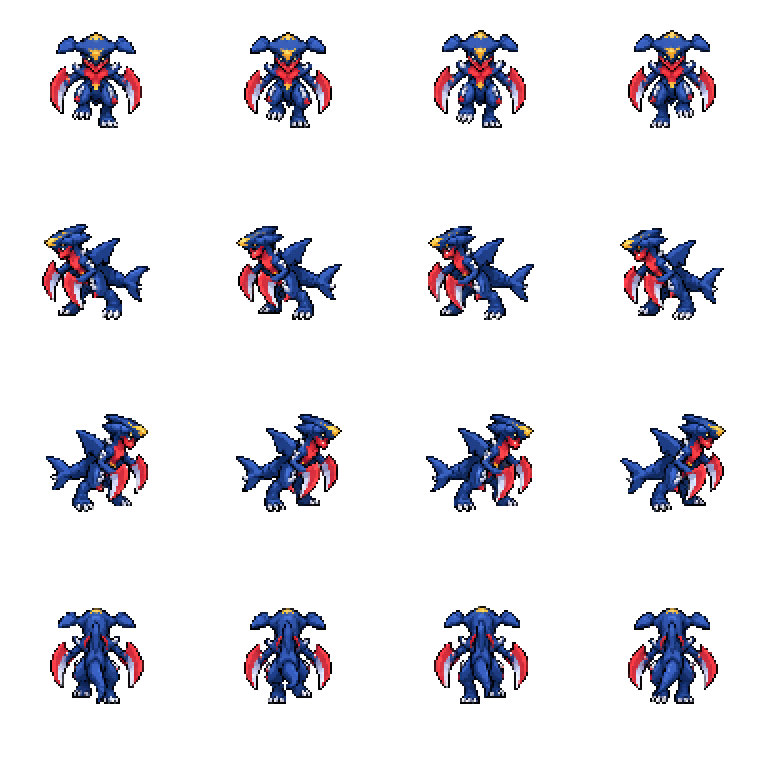
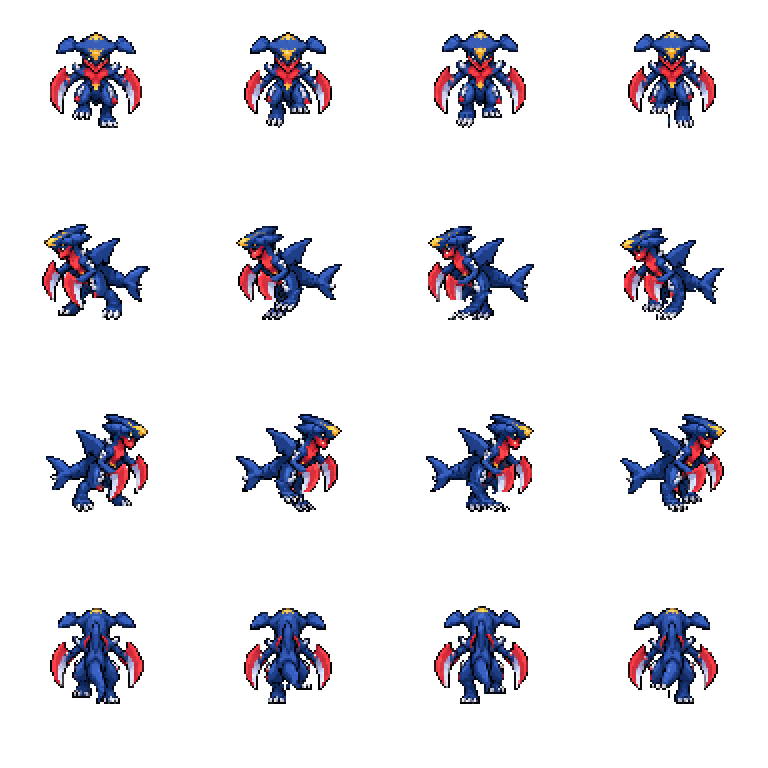
Give Mega Garchomp visible alternating walking strides

diff --git a/docs/mounts/mega_garchomp.md b/docs/mounts/mega_garchomp.md
@@ -6,8 +6,15 @@ The original V7 mount, foreground, rider mask and seat definition are retained
 under `assets/mounts/mega_garchomp/source/`, with SHA-256 provenance.
 
 `tools/build_mega_garchomp_mount.gd` shifts the entire rig upward two physical
-pixels to match the normal avatar ground line. The artwork, palette, 2× pixel
-scale and relative rider placement are unchanged. Player frames remain 64×64.
+pixels to match the normal avatar ground line. The upper body, 2× pixel scale
+and relative rider placement are unchanged.
+`tools/mega_garchomp_walk_rig.gd` now articulates the existing leg pixels into
+clear alternating contact and passing poses. Side views reverse the leading
+foot and lift the recovering foot; front/rear views alternate planted and lifted
+paws. The farther side leg is shaded slightly darker for depth. Phase zero
+retains the original standing pose. Foreground and mask are rebuilt from the
+same leg pixels, with the approved head and seat region locked. Player frames
+remain 64×64.
 The complete front and side heads and the traced rear dorsal fin retain the
 approved occlusion. Foreground and mask use the same pixels and synchronize
 with the actual local and remote avatar animations, including idle and swaps.
@@ -28,8 +35,11 @@ to move the actual avatar renderer with WASD/arrows. G changes player model;
 Space toggles animation. This isolated scene requires no account or server.
 
 `tests/mega_garchomp_mount_check.gd` verifies unlocks, icon and localization,
-approved pixels and seat offsets, masks, ground alignment, both player models,
-and local/remote animation synchronization. Shared mount switching, world depth,
+approved upper-body pixels and seat offsets, distinct leg poses, masks, ground
+alignment, both player models, and local/remote animation synchronization.
+A timed playback check also lets all four frames advance naturally during
+repeated movement updates and checks the live foreground and rider masks.
+Shared mount switching, world depth,
 selection UI and unimported-asset checks cover the new catalog entry.
 Backend tests cover granting, ownership, regional licensing and public catalog
 availability. These are focused checks, not release certification.

diff --git a/CHANGELOG.md b/CHANGELOG.md
@@ -2,6 +2,8 @@
 
 ## Unreleased
 
+- Give Mega Garchomp clearly alternating walking strides and lifted feet while retaining the approved head, riding position and standing pose.
+
 - Add the native-size Glaceon land mount with the approved riding pose, corrected side-ear layering and a compact Bag icon.
 
 - Lower the front-facing rider on both Absol mounts for a closer seated fit while preserving synchronized walking motion.
